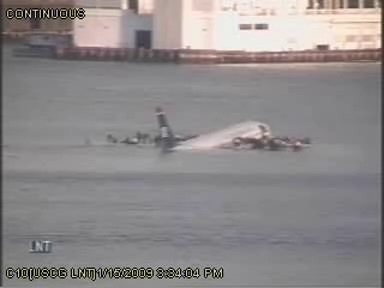
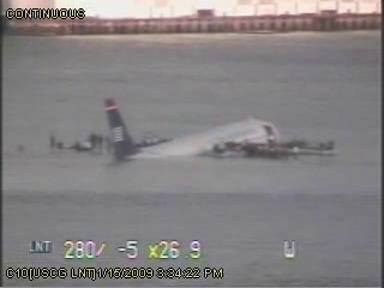
32本目 ⑤c' 検品【直す】：Ogg の入力シークのずれを出力シークに・c101 の区間・c305/c306/c307/cb10 の地・c514 の見出し・c818 の替え
- footage._cut_stream：Ogg（.ogv/.ogg）は `-ss` を `-i` の後ろへ。入力シークは X より手前のキーフレームから読む
  （-ss 186 → 頭から順に読んだ 170.667秒目と画素で差 0.00・Modal の検品画像も同じ）＝VTS 13カット中9カットが 15〜20秒手前だった
  （c102 c801 c811 c901 c903 c908 ca07 c911 c919）。selftest に Ogg の対照4つ（陽性対照 70/70）
- ep32_assets fb：ひかえの静止画（章の扉の地にもなる）も出力シークで作り直した（10枚＝ずれの9＋c101）
- c101：区間の頭 7.0 → 5.0（×2 の窓のしぶき 10.0〜14.0秒・語り「白いしぶきは」を最大の 12.0 の直後に）
- c305：額の地を PAGE_BLUR（手書きの英字が読めた）。名前は c61.jpg に無い（束の段で行 852 まで）
- c306・c307：地 c61 → gc1（gs1 は c307 で 8:1 を割った）／cb10：地 c61 → c14
- c514：見出し「機長の話」→「遠すぎたテターボロ」（真下の写真は調査官）
- c818：Pexels 3036757（座席の背の札＝字が主役）→ 4061487（暗い客室の空いた座席）・SLIDE_NOT_MOUNT に左の暗い帯
- 帳：並べ 41/41・原寸 18・疑い 38 のうち 17 決着（3-A）

diff --git a/tools/footage.py b/tools/footage.py
@@ -727,7 +727,7 @@ USE = {
     #   （narration.json の実測の秒・扉を除く）。欄は束のチャットで道具から書き出す（手で書かない）＝下の印のあいだ。
     #   🔴 等速・止めなし・頭から使う・同じ秒を2回使わない・音は使わない（-an）・焼き込みのカメラの時計は語りと副題に使わない
     # EP32_USE>>> ここから（手で書かない）
-    "c101": dict(clip="VC", start=7.00, until=20.50, rate=1.0, zoom=2.0, xbias=0.0, bias=0.44),   # 読む 9.17秒（〜16.17）／区間 13.50秒・ショット 0〜42.667
+    "c101": dict(clip="VC", start=5.00, until=20.50, rate=1.0, zoom=2.0, xbias=0.0, bias=0.44),   # 読む 9.17秒（〜14.17）／区間 15.50秒・ショット 0〜42.667
     "c102": dict(clip="VC", start=82.00, until=95.50, rate=1.0),   # 読む 9.75秒（〜91.75）／区間 13.50秒・ショット 42.667〜108
     "c801": dict(clip="VC", start=186.00, until=206.50, rate=1.0),   # 読む 9.07秒（〜195.07）／区間 20.50秒・ショット 183.667〜207
     "c811": dict(clip="VC", start=210.00, until=227.50, rate=1.0),   # 読む 9.24秒（〜219.24）／区間 17.50秒・ショット 207〜228
@@ -1124,7 +1124,7 @@ def selftest():
     def _dl_fail(_u, _d):
         raise IOError("（検算：網には出ない）")
 
-    def _vf_of(w, h, dispw, dl=_dl_fail, extra=None):
+    def _vf_of(w, h, dispw, dl=_dl_fail, extra=None, url="http://example.invalid/s.mp4", start=1.0):
         seen = {}
 
         class _R:
@@ -1142,10 +1142,10 @@ def selftest():
             time.sleep = lambda *_a, **_k: None            # type: ignore[assignment]
             globals()["download_media"] = dl
             _MEDIA.clear()
-            CLIPS["_st_sar"] = dict(url="http://example.invalid/s.mp4", sec=99.0,
+            CLIPS["_st_sar"] = dict(url=url, sec=99.0,
                                     w=w, h=h, dispw=dispw, credit="（検算用）",
                                     note="（検算用）", stream=True, **(extra or {}))
-            _cut_stream("_st_sar_cut", dict(clip="_st_sar", start=1.0), 1.0)
+            _cut_stream("_st_sar_cut", dict(clip="_st_sar", start=start), 1.0)
         finally:
             subprocess.run = keep_run                      # type: ignore[assignment]
             time.sleep = keep_sleep                        # type: ignore[assignment]
@@ -1181,6 +1181,15 @@ def selftest():
     # 🆕 18本目 ⑤b-7c：NARA の mp4（`"range": true`）は落とさずに URL のまま区間を読む（丸ごと保存しない＝(c) の了承）
     _v, cmd_rg = _vf_of(720, 480, 655, dl=lambda _u, _d: 215_134_981, extra=dict(range=True))
     chk("陽性対照：range の帯は丸ごと落とさず URL のまま ffmpeg に渡す", _src_of(cmd_rg).startswith("http"), True)
+    # 🆕 32本目 ⑤c'：Ogg は出力シーク（`-ss` が `-i` の後ろ）＝入力シークだとキーフレームへ戻ったまま（_cut_stream の注）
+    _v, cmd_og = _vf_of(384, 288, 384, dl=lambda _u, _d: 5_537_657, url="http://example.invalid/v.ogv", start=186.0)
+    chk("陽性対照：Ogg（.ogv）は -ss が -i の後ろ（出力シーク）",
+        "-ss" in cmd_og and cmd_og.index("-ss") > cmd_og.index("-i") and _src_of(cmd_og).endswith(".ogv"), True)
+    chk("陽性対照：そのときの秒は区間の頭のまま（186.000）", cmd_og[cmd_og.index("-ss") + 1] == "186.000", True)
+    chk("陰性対照：mp4 は今までどおり -ss が -i の前（入力シーク）",
+        "-ss" in cmd_dl and cmd_dl.index("-ss") < cmd_dl.index("-i"), True)
+    chk("陰性対照：網の Ogg を落とせず URL を渡すときも出力シーク（区間読みの二分探索を連打しない）",
+        _seek_after_input("https://upload.wikimedia.org/x/Flight1549CrashAndRescue.ogv"), True)
     import shutil as _sh
     _sh.rmtree(FOOT / "_st_sar_cut", ignore_errors=True)
 
@@ -1516,6 +1525,14 @@ def head_mismatch(use=None, spec=None):
     return sorted(a - b), sorted(b - a)
 
 
+OGG_EXT = (".ogv", ".ogg", ".ogx")
+
+
+def _seek_after_input(src):
+    """🆕 32本目 ⑤c'：Ogg は `-ss` を `-i` の後ろに置く（入力シークはキーフレームへ戻ったまま＝最大20秒手前・_cut_stream の注）"""
+    return str(src).lower().split("?")[0].endswith(OGG_EXT)
+
+
 def _cut_stream(cid, u, secs):
     """URL から、そのカットに要る区間だけをコマに切り出す（落とさない）。"""
     c = CLIPS[u["clip"]]
@@ -1563,8 +1580,18 @@ def _cut_stream(cid, u, secs):
             #    この回は音を鳴らさない決定なので、指定しないと混ざる。
             # ⚠ `-user_agent` は http の口の設定。手元のファイルに付けると止まる版がある
             net = ["-user_agent", UA] if str(src).startswith(("http://", "https://")) else []
+            # 🔴🔴 2026-11-12（32本目 ⑤c'）**Ogg は入力シーク（`-ss` を `-i` の前）だと、X より手前のキーフレームから読む。**
+            #    VTS（Commons の .ogv・毎秒3コマ）で `-ss 186 -i` の1コマ目が、頭から順に読んだ **170.667秒目**と画素で一致（差 0.00）。
+            #    13カット中9カットが 15〜20秒手前から切られ、c801 は機体の入る前の建物、c901 はフェリーの着く前の寄りになった。
+            #    Modal（apt の ffmpeg）でも同じ＝焼いた検品画像の額の中が順の 214.0秒（SPEC は 230）。ffmpeg 8.1.1 の手元も同じ。
+            #    出力シーク（`-i` の後ろに `-ss`）は頭から読んで捨てる＝4本とも順の秒と差 0.00。速さを変える欄は出力側の時間が
+            #    PTS/rate なので秒も ss/rate。→ [[feedback-verify-your-own-instrument]]
+            if _seek_after_input(src):
+                seek_in, seek_out = [], ["-ss", f"{ss / rate:.3f}"]
+            else:
+                seek_in, seek_out = ["-ss", f"{ss:.2f}"], []
             cmd = ["ffmpeg", "-y", "-nostdin", "-hide_banner", "-loglevel", "error",
-                   *net, "-ss", f"{ss:.2f}", "-i", src,
+                   *net, *seek_in, "-i", src, *seek_out,
                    "-an", "-t", f"{secs + 0.6:.2f}", "-vf", ",".join(vf),
                    "-frames:v", str(n), "-q:v", "3", "-start_number", "0",
                    str(d / "%05d.jpg")]

diff --git a/tools/cuts/c3.py b/tools/cuts/c3.py
@@ -156,8 +156,10 @@ SPEC.update({
 # 🆕 ⑤b-6（2026-11-11）：型の図（時計・比べ・並べ・線・帯）＝mech32 の「⑤b-6」の節
 SPEC.update({
     "c301": _m32.zu_spec("c301", ss.gr("stock/gs1")),
-    "c306": _m32.zu_spec("c306", ss.gr("c61")),
-    "c307": _m32.zu_spec("c307", ss.gr("c61")),
+    # 🔧 ⑤c'（2026-11-12）：地 c61 → gc1（c61 の手書きの英字 BYPASS・FLOW PATH・1-29-09 が 0.24 でも読め、メスの札が字の上に乗った）。
+    #    同じ章の gs1（0.37）は c307 で門番 ground が 8.0:1 を割った（地の明るさは写真ごとに1つ＝gs1 を下げると8カットが変わる）＝雲の上の gc1（0.32）
+    "c306": _m32.zu_spec("c306", ss.gr("stock/gc1")),
+    "c307": _m32.zu_spec("c307", ss.gr("stock/gc1")),
     "c308": _m32.zu_spec("c308", ss.gr("stock/gs1")),
     "c323": _m32.zu_spec("c323", ss.gr("stock/gs1")),
 })
@@ -166,7 +168,9 @@ SPEC.update({
 _C61, _D76_4, _D76_2, _D101_2 = P("c61"), P("d76_4"), P("d76_2"), P("d101_2")
 SPEC.update({
     # c305＝[61] 袋の羽（エンジン1 の札・「1-29-09」・左下の手書きの人の名前は束の段で切り落とした）
-    "c305": dict(photo=_C61, panel=True, ptall=True, ground=dict(photo=_C61), color=1.0,
+    #   🔧 ⑤c'（2026-11-12）：額の地（既定のぼかし）で手書きの英字が大きく読めた＝c202 と同じ紙面の強さ（PAGE_BLUR）。
+    #      手書きの人の名前は c61.jpg に無い（束の段で行 852 まで＝名前は原本の行 855〜940）＝地のぼかしにも出ない
+    "c305": dict(photo=_C61, panel=True, ptall=True, ground=dict(photo=_C61, blur=ss.PAGE_BLUR), color=1.0,
                  t="羽の分析", s="エンジンから集めた羽〈NTSB〉"),
     # c309＝#76 写真4 ピンクの丸の中の凹み
     "c309": dict(photo=_D76_4, panel=True, ptall=True, ground=dict(photo=_D76_4), color=1.0,

diff --git a/tools/cuts/c5.py b/tools/cuts/c5.py
@@ -181,7 +181,7 @@ SPEC.update({
     # c514＝[35] 甲板の残骸のそばの NTSB の調査官（公的な任務・名前は書かない）＝調査官と残骸へ寄る
     #   🔧 試し焼き（Actions 43026909564）：真ん中から寄ると調査官の頭（帽子＝行 0.03〜0.12）が窓の上の外に出た＝上寄せの窓を2つ（`mvz`）
     "c514": dict(photo=_C35, **ss.mvz(_C35, (0.5, 0.42, 1.0), (0.55, 0.40, 1.12)), side="none", color=1.0,
-                 t="機長の話", s="残骸を見る NTSB の調査官〈2009年1月・陸軍工兵隊〉"),
+                 t="遠すぎたテターボロ", s="残骸を見る NTSB の調査官〈2009年1月・陸軍工兵隊〉"),   # 🔧 ⑤c'（11-12）見出し「機長の話」→ 人を指さない語（真下の調査官を機長と取り違えない）
     # c516＝[8] 奥の岸壁の機体と消防艇（EXIF 1月17日 9:51）＝機体と消防艇のあいだへ寄る
     #   🔧 寄りは 1.10（1.15 だと寄り終わりの窓の上の辺〈行 418〉が左上のビルの OCR の行 405〜442 を 65% で切る＝門番 edges）
     "c516": dict(photo=_C8, **ss.mv(_C8, "in", fx=0.3, fy=0.68, z=1.10), side="none", color=1.0,

diff --git a/qa_out/ep32_assets.py b/qa_out/ep32_assets.py
@@ -1361,7 +1361,9 @@ def cmd_fb(only=None):
         c = FO.CLIPS.get(u["clip"]) or {}
         if not str(c.get("scan", "")).startswith("ref/ep32/"):
             continue
-        raw = subprocess.run(["ffmpeg", "-v", "error", "-ss", f"{float(u['start']):.3f}", "-i", str(HERE / c["scan"]), "-frames:v", "1",
+        # 🔴 11-12（⑤c'）：Ogg は `-ss` を `-i` の後ろ（出力シーク）。前に置くと X より手前のキーフレーム（最大約20秒手前）のコマになり、
+        #    章の扉の地（c800card＝fb_c801・c900card＝fb_c901）が機体の写らない別の絵だった（footage._cut_stream の注と同じ）
+        raw = subprocess.run(["ffmpeg", "-v", "error", "-i", str(HERE / c["scan"]), "-ss", f"{float(u['start']):.3f}", "-frames:v", "1",
                               "-f", "image2pipe", "-vcodec", "png", "-"], capture_output=True).stdout
         if not raw:
             print(f"🔴 {cid}: コマが取れない")

diff --git a/tools/cuts/ss.py b/tools/cuts/ss.py
@@ -860,6 +860,7 @@ SLIDE_MOUNT: dict[str, str] = {}
 #       （640px のシートで見た・測った辺＝門番の margins の値）。VTS のひかえ（焼き込みの字の行がある）は暗い帯 0＝字の行は帯にならない。スライドの台紙の縁は0点
 SLIDE_NOT_MOUNT: dict[str, str] = {
     P("c9"): "夜の作業の写真＝上の 5.0% は夜の空（陸軍工兵隊の船の上）",
+    P("stock/x818"): "暗い客室の空いた座席（⑤c' で替えた Pexels 4061487）＝左の 5.0% は影の中の客室の壁と窓の板（候補の見本で見た）",
     P("c40"): "夜の岸壁のそばの機体＝右の 5.0% は明かりの消えたビルの壁（夜）",
     P("c41"): "引き上げたあとの機体（夜）＝左・上・右の 5% は夜の空と木の枝の影",
     P("c46"): "引き上げられる機体（夜・BY-SA＝額装だけ）＝上・右の 5% は夜の空とクレーンの影",

diff --git a/tools/cuts/cb.py b/tools/cuts/cb.py
@@ -103,7 +103,7 @@ SPEC.update({
     "cb03": _m32.fu_spec("cb03", ss.gr("c13")),
     "cb05": _m32.fu_spec("cb05", ss.gr("c14")),
     "cb07": _m32.zu_spec("cb07", ss.gr("c14")),
-    "cb10": _m32.fu_spec("cb10", ss.gr("c61")),
+    "cb10": _m32.fu_spec("cb10", ss.gr("c14")),   # 🔧 ⑤c'（2026-11-12）：地 c61 → c14（c61 の手書きの英字が読めた＝同じ章の cb05・cb07 の地）
     "cb14": _m32.zu_spec("cb14", ss.gr("c13")),
     "cb15": _m32.zu_spec("cb15", ss.gr("c49")),
 })

diff --git a/ref/ep32/eizou_list32.md b/ref/ep32/eizou_list32.md
@@ -19,7 +19,7 @@ tags: [project/jiko-kensho, ep32]
 | 図 | 90 カット（模式 67・ほか 23＝地はすべて写真） | 地は暗くするだけ・動かさない |
 | 見せ方（写真・映像・紙面・イメージ） | 額装（高さいっぱい） 66・全面 65・額装（衛星） 15 | 額装は静止 |
 | 動き | 静止 68・ゆっくり寄る 65・映像 13 | 全面は寄る／流す |
-| 🔧 台本の画の欄から替えたカット | 110 | 台本は直さない＝⑤b はこの一覧に従う |
+| 🔧 台本の画の欄から替えたカット | 113 | 台本は直さない＝⑤b はこの一覧に従う |
 | 種類 | 模式 67・イメージ 46・写真 38・公的 21・衛星 15・映像 13・調査 13・割合 3・帯 3・比べ 2・並べ 2・年表 2・表 2・棒 2・箱 2・時計 1・線 1・言葉 1・流れ 1・札 1 | — |
 | 合計 | 236 カット・35:54.8（audio/narration.json の実測・ed01 を除く） | — |
 
@@ -57,18 +57,17 @@ tags: [project/jiko-kensho, ep32]
 - C26（浮かぶ機体と翼の上に並ぶ人たち（遠景・顔は分からない））＝5 カット：c802 c804 c807 c809 c810
 - C16（浮かぶ機体に横付けしたフェリー（高い所から・遠景））＝5 カット：c813 c816 c819 c820 c822
 - C21（消防艇と小舟・沈みかけの翼と尾翼（AIRWAYS の字））＝4 カット：c209 c210 c719 c723
-- C61（袋に入った羽（エンジン1 の札・袋の手書きの字））＝3 カット：c306 c307 cb10
+- GC1（イメージ（地）：上から見た雲の海）＝3 カット：c306 c307 c605
 - C49（この機体の操縦室の天井のパネル（ENG 1・APU・ENG 2 の消火のボタン））＝3 カット：c311 c619 cb15
 - GB2（イメージ（地）：重ねた白い紙の角（白黒））＝3 カット：c610 c614 c615
 - C36（岸壁のそばの沈みかけの機体と沿岸警備隊の小舟 25640（晴れ・昼））＝3 カット：ca08 ca10 ca12
+- C14（錨を下ろす作業船の人（甲板・昼））＝3 カット：cb05 cb07 cb10
 - GF1（イメージ（地）：窓から見た翼と翼のうしろの板）＝2 カット：c703 c711
 - C1（川一面の船（手前に艦の一部と桟橋））＝2 カット：c909 c918
 - C18（機体のまわりのフェリーの群れとヘリコプター（夕日の川））＝2 カット：c913 ca14
-- C14（錨を下ろす作業船の人（甲板・昼））＝2 カット：cb05 cb07
 - GR1（イメージ（地）：雪の桟橋と冬の水面を上から）＝1 カット：c410
 - GT1（イメージ（地）：暗い赤い客席の列）＝1 カット：c518
 - GB1（イメージ（地）：見出しの札のついたカードの束）＝1 カット：c603
-- GC1（イメージ（地）：上から見た雲の海）＝1 カット：c605
 - GK2（イメージ（地）：古い小さな機の針の計器の並び）＝1 カット：c705
 - GR2（イメージ（地）：さざ波の立つ川面（白黒））＝1 カット：ca04
 - GL1（イメージ（地）：船に掛けた救命胴衣）＝1 カット：cb13
@@ -77,7 +76,7 @@ tags: [project/jiko-kensho, ep32]
 
 | カット | 秒 | 語りの頭 | 画 |
 |---|---|---|---|
-| c101 | 0:00.0〜0:09.2 | 2009年1月15日の午後、ニューヨーク | 映像 VC＝沿岸警備隊の監視カメラ〈2009年1月15日・ハドソン川〉（映像 7.00〜20.50秒） |
+| c101 | 0:00.0〜0:09.2 | 2009年1月15日の午後、ニューヨーク | 映像 VC＝沿岸警備隊の監視カメラ〈2009年1月15日・ハドソン川〉（映像 5.00〜20.50秒） |
 | c102 | 0:09.2〜0:18.9 | USエアウェイズ1549便、エアバスA3 | 映像 VC＝川に浮かぶ機体と翼の上の人〈沿岸警備隊の監視カメラ〉（映像 82.00〜95.50秒） |
 | c103 | 0:18.9〜0:25.5 | みんな、助かったの？155人は、全員が生 | 写真 C26＝翼の上に並んだ人たち〈2009年1月15日〉（静止） |
 | c104 | 0:25.5〜0:31.7 | 飛び立って1分半あまり。鳥の群れとぶつか | 写真 C31＝着水の直後の機体〈2009年1月15日〉（ゆっくり寄る） |
@@ -92,7 +91,7 @@ tags: [project/jiko-kensho, ep32]
 
 | カット | 秒 | 語りの頭 | 種類 | 素材 | 地 | 見せ方 | 副題・札 | 動き | 🔧 | 備考 |
 |---|---|---|---|---|---|---|---|---|---|---|
-| c101 | 0:00.0（9.2） | 2009年1月15日の午後、ニューヨーク | 映像 | VC | — | 額装（高さいっぱい） | 沿岸警備隊の監視カメラ〈2009年1月15日・ハドソン川〉 | 映像 7.00〜20.50秒 | 🔧 区間 0〜20秒 → 7.0秒から（しぶきは 9秒から＝語りの「白いしぶきは」より前に入る） | しぶきに丸の囲み（9秒〜）・拡大しない（⑤b の試し焼きで見えなければ ×2 の固定の切り出し）・高さいっぱいの額＋同じ映像のぼかしの地 ［冒頭］ |
+| c101 | 0:00.0（9.2） | 2009年1月15日の午後、ニューヨーク | 映像 | VC | — | 額装（高さいっぱい） | 沿岸警備隊の監視カメラ〈2009年1月15日・ハドソン川〉 | 映像 5.00〜20.50秒 | 🔧 区間 0〜20秒 → 7.0秒から → ⑤c'（11-12）5.0秒から（×2 の窓の中のしぶきは頭から順に読んだ 10.0〜14.0秒・最大 12.0＝語り「白いしぶきは」〈カットの約7.4秒〉を約12.4秒に重ねる） | しぶきに丸の囲み（9秒〜）・拡大しない（⑤b の試し焼きで見えなければ ×2 の固定の切り出し）・高さいっぱいの額＋同じ映像のぼかしの地 ［冒頭］ |
 | c102 | 0:09.2（9.7） | USエアウェイズ1549便、エアバスA3 | 映像 | VC | — | 額装（高さいっぱい） | 川に浮かぶ機体と翼の上の人〈沿岸警備隊の監視カメラ〉 | 映像 82.00〜95.50秒 | 🔧 区間 50秒〜1分30秒 → 82.0秒から（翼の上の人がいちばん見える・カメラが落ち着いた 81〜96秒） | 人は遠景で顔は分からない ［冒頭］ |
 | c103 | 0:18.9（6.6） | みんな、助かったの？155人は、全員が生 | 写真 | C26 | — | 額装（高さいっぱい） | 翼の上に並んだ人たち〈2009年1月15日〉 | 静止 | 🔧 全面 → 高さいっぱいの額（1289×1243＝ほぼ正方形） | 地は同じ写真のぼかし ［冒頭］ |
 | c104 | 0:25.5（6.2） | 飛び立って1分半あまり。鳥の群れとぶつか | 写真 | C31 | — | 全面 | 着水の直後の機体〈2009年1月15日〉 | ゆっくり寄る | 🔧 副題を写っているものに（頁の説明「shortly after landing」） | — ［冒頭］ |
@@ -137,8 +136,8 @@ tags: [project/jiko-kensho, ep32]
 | c303 | 4:32.2（6.9） | ぶつかったのは、地上から約860メートル | 衛星 | SAT:鳥とぶつかった所 | — | 額装（衛星） | 鳥とぶつかった所〈現在の衛星写真〉 | 静止 | — | — |
 | c304 | 4:39.1（5.7） | どんな鳥だったの？エンジンに残った羽や血 | イメージ | X304 | — | 全面 | イメージ：空を飛ぶカナダガンの群れ | ゆっくり寄る | — | — |
 | c305 | 4:44.8（11.0） | 羽の成分をくらべると、渡りをするガンの羽 | 写真 | C61 | — | 額装（高さいっぱい） | エンジンから集めた羽〈NTSB〉 | 静止 | 🔧 全面 → 額装（縦長） | 🔴 左下の手書きの人の名前を切る（PD＝切出可） |
-| c306 | 4:55.8（8.7） | 1羽の重さは、平均で3キロをこえる。報告 | 比べ | — | C61 | — | ガンの重さ＝オス 約3.8〜4.2キロ・メス 約3.3〜3.5キロ | — | — | — |
-| c307 | 5:04.4（7.6） | このエンジンが認められたときの、大きな鳥 | 並べ | — | C61 | — | 大きな鳥の試験＝約1.8キロ〈4ポンド〉1羽・当たったガン＝約3.6キロ〈8ポンド〉が2羽ずつ | — | — | — |
+| c306 | 4:55.8（8.7） | 1羽の重さは、平均で3キロをこえる。報告 | 比べ | — | GC1 | — | ガンの重さ＝オス 約3.8〜4.2キロ・メス 約3.3〜3.5キロ | — | 🔧 ⑤c'（11-12）地 C61 → GC1（C61 の手書きの英字が 0.24 でも読め、メスの札が字の上に乗った・GS1 は c307 で 8:1 を割った） | — |
+| c307 | 5:04.4（7.6） | このエンジンが認められたときの、大きな鳥 | 並べ | — | GC1 | — | 大きな鳥の試験＝約1.8キロ〈4ポンド〉1羽・当たったガン＝約3.6キロ〈8ポンド〉が2羽ずつ | — | 🔧 ⑤c'（11-12）地 C61 → GC1（c306 と同じ） | — |
 | c308 | 5:12.0（12.8） | ぶつかった直後、エンジンの回る速さは、左 | 線 | — | GS1 | — | エンジンの回る速さ＝左 82%→35%・右 82%→15% の2本の線 | — | — | — |
 | c309 | 5:24.8（7.9） | 午後3時27分14秒。副操縦士が「あっ」 | 調査 | D76-4 | — | 額装（高さいっぱい） | 鳥が当たった跡〈NTSB の調査の写真〉 | 静止 | 🔧 調査の写真の番号を凡例から（#76 写真4） | — |
 | c310 | 5:32.7（7.1） | 機長はエンジンの点火を入れ、その2秒ほど | イメージ | X310 | — | 全面 | イメージ：旅客機の操縦室のスイッチ〈機種は名乗らない〉 | ゆっくり寄る | — | — |
@@ -361,7 +360,7 @@ tags: [project/jiko-kensho, ep32]
 | cb07 | 32:48.5（5.6） | 閉じるまで、ずいぶんかかったんだね。そう | 模式 | — | C14 | — | 事故から17年近くの帯の札 | — | — | — |
 | cb08 | 32:54.1（7.9） | 65番の縦の梁を、客室に突き出しにくい形 | 調査 | D79-45 | — | 額装（高さいっぱい） | 65番の床の穴〈NTSB の調査の写真〉 | 静止 | 🔧 調査の写真の番号を凡例から（#79 写真45）・⑤b-7：副題を額の左に収まる長さに（fmove） | △ 絵は ⑤b で原寸 |
 | cb09 | 33:02.0（12.7） | 2023年、FAAは、群れで飛ぶ中くらい | 公的 | FR2023 | — | 額装（高さいっぱい） |  | 静止 | — | — |
-| cb10 | 33:14.7（11.3） | そう。規則の説明は、1549便の事故をき | 模式 | — | C61 | — | 規則の説明の札＝1549便の事故から研究が始まった | — | — | — |
+| cb10 | 33:14.7（11.3） | そう。規則の説明は、1549便の事故をき | 模式 | — | C14 | — | 規則の説明の札＝1549便の事故から研究が始まった | — | 🔧 ⑤c'（11-12）地 C61 → C14（C61 の手書きの英字が読めた＝同じ章の cb05・cb07 の地） | — |
 | cb11 | 33:26.0（11.9） | まだ開いているのは、どの勧告？農務省への | イメージ | Xb11 | — | 全面 | イメージ：空を飛ぶ鳥の群れと旅客機の遠景〈社名と機種は見せない〉 | ゆっくり寄る | — | — |
 | cb12 | 33:37.8（13.5） | 報告書の言う偶然に頼らない、救命胴衣の勧 | イメージ | Xb12 | — | 全面 | イメージ：救命胴衣の着け方の説明〈人の顔なし | ゆっくり寄る | — | — |
 | cb13 | 33:51.3（7.6） | 救命胴衣の決まりを、すばやく、正しく着け | 模式 | — | GL1 | — | 救命胴衣の勧告の札＝すばやく正しく着けられる決まりへ | — | 🔧 地 [11]（夜）→ イメージ〈救命胴衣〉 | — |
@@ -400,7 +399,7 @@ tags: [project/jiko-kensho, ep32]
 | C8 | commons-photo | accident | 岸壁のそばの機体と消防艇・警察の船（奥に高い建物） | 3840 の縮小版（原本 4319） | 4319×2865 | CC BY 2.0 | Commons の頁の許諾 | 写真：{作者}／Wikimedia Commons（CC BY 2.0） | 2009-01-17 09:51（EXIF） | 船の上の人（遠景） | src/commons/c32/ | c516 | 台本の「夕方・1月15日」は誤り＝1月17日の朝 |
 | C9 | commons-photo | night | 夜の作業＝工兵隊の作業員と警察の人（船の上） | 原本 | 1800×1205 | CC BY 2.0 | 陸軍工兵隊ニューヨーク地区の Flickr（頁の許諾） | 写真：{作者}／Wikimedia Commons（CC BY 2.0） | 2009-01（頁の説明＝機体を岸壁につなぐ作業）・夜 | 工兵隊・警察（公的な任務・中景） | src/commons/c32/ | cb04 | 夜＝地にしない |
 | C13 | commons-photo | accident | 氷の浮かぶ川・警察の船と作業船（奥にマンハッタン） | 3840 の縮小版（原本 3872） | 3872×2592 | CC BY 2.0 | 頁に PD の札もある＝CC BY 2.0 で表示（強いほうに寄せない） | 写真：{作者}／Wikimedia Commons（CC BY 2.0） | 2009-01（頁の説明） | なし（遠景） | src/commons/c32/ | c113 c419 cb01 cb02 cb03 cb14 | 機体は写っていない |
-| C14 | commons-photo | accident | 錨を下ろす作業船の人（甲板・昼） | 3840 の縮小版（原本 3872） | 3872×2592 | CC BY 2.0 | 頁に PD の札もある＝CC BY 2.0 で表示 | 写真：{作者}／Wikimedia Commons（CC BY 2.0） | 2009-01（頁の説明） | 工兵隊の作業員（横顔・公的な任務） | src/commons/c32/ | cb05 cb06 cb07 | 機体は写っていない |
+| C14 | commons-photo | accident | 錨を下ろす作業船の人（甲板・昼） | 3840 の縮小版（原本 3872） | 3872×2592 | CC BY 2.0 | 頁に PD の札もある＝CC BY 2.0 で表示 | 写真：{作者}／Wikimedia Commons（CC BY 2.0） | 2009-01（頁の説明） | 工兵隊の作業員（横顔・公的な任務） | src/commons/c32/ | cb05 cb06 cb07 cb10 | 機体は写っていない |
 | C15 | commons-photo | accident | 浮かぶ機体と寄せたフェリー（高い所から・遠景） | 3840 の縮小版（原本 4288） | 4288×2848 | CC BY 2.0 | Commons の頁の許諾 | 写真：{作者}／Wikimedia Commons（CC BY 2.0） | 2009-01-15（頁の説明） | なし（遠景） | src/commons/c32/ | c105 | — |
 | C16 | commons-photo | accident | 浮かぶ機体に横付けしたフェリー（高い所から・遠景） | 3840 の縮小版（原本 4288） | 4288×2848 | CC BY 2.0 | Commons の頁の許諾 | 写真：{作者}／Wikimedia Commons（CC BY 2.0） | 2009-01-15（頁の説明） | なし（遠景） | src/commons/c32/ | c813 c816 c819 c820 c821 c822 | [15] と同じ撮影者の別の時（似た写真＝c105 と c821 で離す） |
 | C18 | commons-photo | accident | 機体のまわりのフェリーの群れとヘリコプター（夕日の川） | 1920 の縮小版（原本 2144） | 2144×1424 | CC BY 2.0 | Commons の頁の許諾 | 写真：{作者}／Wikimedia Commons（CC BY 2.0） | 2009-01-15（頁の説明） | なし（遠景） | src/commons/c32/ | c106 c913 ca14 | [17] は切って色を直した版＝原本の [18] |
@@ -426,7 +425,7 @@ tags: [project/jiko-kensho, ep32]
 | C57 | commons-photo | accident | 天幕の中で保管中の機体（翼を外した胴体・技術者の後ろ姿） | 1920 の縮小版（原本 2848） | 2848×2136 | CC BY-SA 3.0 | Commons の頁の許諾 | 写真：{作者}／Wikimedia Commons（CC BY-SA 3.0）・無加工 | 2010（題・頁の説明＝ニュージャージー州での保管） | 技術者（奥に小さく立つ・横向き＝⑤b-7 の試し焼きで見た・主役でない） | src/commons/c32/ | ca11 | BY-SA＝額装・無加工・1カット |
 | C59 | commons-photo | accident | トラックで運ばれる胴体（木々の向こう・州警察の建物のそば） | 原本 | 1852×1316 | CC0 | 作者の CC0（頁の許諾） | 写真：{作者}／Wikimedia Commons（CC0） | 2011（頁の説明＝メリーランド州・博物館への運搬） | 遠くの人（小さい） | src/commons/c32/ | cc01 | — |
 | C60 | commons-photo | accident | 運搬に付き添った博物館の車（「The Miracle on the Hudson」の字） | 原本 | 764×591 | CC0 | 作者の CC0（頁の許諾） | 写真：{作者}／Wikimedia Commons（CC0） | 2011（頁の説明＝メリーランド州） | 運転の人（窓の中・顔は分からない） | src/commons/c32/ | cc02 | 小さい＝額装 |
-| C61 | commons-photo | accident | 袋に入った羽（エンジン1 の札・袋の手書きの字） | 原本 | 900×1200 | PD（PD-NTSB） | 米国の連邦の業務 | 写真：NTSB（public domain）／Wikimedia Commons・改変：切出 | 2009-01-29（袋の字） | なし | src/commons/c32/ | c305 c306 c307 cb10 | 🔴 袋の左下の手書きの人の名前を切って使う（PD＝切出可）・縦長＝額装 |
+| C61 | commons-photo | accident | 袋に入った羽（エンジン1 の札・袋の手書きの字） | 原本 | 900×1200 | PD（PD-NTSB） | 米国の連邦の業務 | 写真：NTSB（public domain）／Wikimedia Commons・改変：切出 | 2009-01-29（袋の字） | なし | src/commons/c32/ | c305 | 🔴 袋の左下の手書きの人の名前を切って使う（PD＝切出可）・縦長＝額装 |
 | C62 | commons-photo | museum | 保管中のこの機体の操縦室（泥の跡・座席） | 原本 | 1600×1200 | CC BY-SA 3.0 | Commons の頁の許諾 | 写真：{作者}／Wikimedia Commons（CC BY-SA 3.0）・無加工 | 2011-02-25（EXIF＝博物館へ移す前の保管中） | なし | src/commons/c32/ | c611 | BY-SA＝額装・無加工・1カット |
 | C63 | commons-photo | museum | 保管中のこの機体の座席（泥の跡） | 原本 | 1600×1200 | CC BY-SA 3.0 | Commons の頁の許諾 | 写真：{作者}／Wikimedia Commons（CC BY-SA 3.0）・無加工 | 2011-02-25（EXIF＝博物館へ移す前の保管中） | なし | src/commons/c32/ | c806 | BY-SA＝額装・無加工・1カット |
 | C68 | commons-photo | museum | 調べたあとの機体の底の壊れ（NTSB の印） | 原本 | 1600×1200 | CC BY-SA 3.0 | Commons の頁の許諾 | 写真：{作者}／Wikimedia Commons（CC BY-SA 3.0）・無加工 | 2011-02-25（EXIF＝博物館へ移す前の保管中） | なし | src/commons/c32/ | c717 | BY-SA＝額装・無加工・1カット（台本の「後ろの胴体の中」は誤り） |
@@ -518,7 +517,7 @@ tags: [project/jiko-kensho, ep32]
 | X803 | stock | stock | イメージ：曇り空の海にひとつ浮かぶ赤いゴムボート | stock:https://images.pexels.com/photos/33338814/pexels-photo-33338814.jpeg?auto=compress&cs=tinysrgb&w=2880 | 2880x4320 | Pexels | https://www.pexels.com/photo/solitary-inflatable-boat-on-tranquil-sea-33338814/（同上） | イメージ（Pexels） | 現在 | なし | src/stock/X803.jpg | c803 | c803・縦長＝窓で横の帯を切る |
 | X808 | stock | stock | イメージ：窓ぎわの空いた座席 | stock:https://images.pexels.com/photos/20584536/pexels-photo-20584536.jpeg?auto=compress&cs=tinysrgb&w=2880 | 2880x4320 | Pexels | https://www.pexels.com/photo/empty-seats-in-airplane-20584536/（同上） | イメージ（Pexels） | 現在 | なし | src/stock/X808.jpg | c808 | c808・🔧 一覧の「座席の下の袋」は Pexels に無い・1本目の候補 1188803 は頁の名が text overlay（字を載せた図案＝字だけの画面）＝外した |
 | X817 | stock | stock | イメージ：救命胴衣の取り出し方の絵の札（座席の下） | stock:https://images.pexels.com/photos/7508662/pexels-photo-7508662.jpeg?auto=compress&cs=tinysrgb&w=2880 | 2880x1393 | Pexels | https://www.pexels.com/photo/safety-guidelines-on-gray-background-7508662/（同上） | イメージ（Pexels） | 現在 | なし | src/stock/X817.jpg | c817 | c817・🔧 一覧の「袋を開ける手」は Pexels に無い＝取り出し方の絵の札（英字の札＝社名なし） |
-| X818 | stock | stock | イメージ：座席の背の札と物入れのしおり | stock:https://images.pexels.com/photos/3036757/pexels-photo-3036757.jpeg?auto=compress&cs=tinysrgb&w=2880 | 2880x1617 | Pexels | https://www.pexels.com/photo/close-up-of-aviation-policy-on-the-back-of-an-airplane-seat-3036757/（同上） | イメージ（Pexels） | 現在 | なし | src/stock/X818.jpg | c818 | c818・🔴 しおりの社名・印は原寸で |
+| X818 | stock | stock | イメージ：暗い客室に並ぶ空いた座席 | stock:https://images.pexels.com/photos/4061487/pexels-photo-4061487.jpeg?auto=compress&cs=tinysrgb&w=2880 | 2880x1920 | Pexels | https://www.pexels.com/photo/black-seats-in-airplane-4061487/（同上） | イメージ（Pexels） | 現在 | 奥の通路に人影1つ（小さく・顔は分からない） | src/stock/X818.jpg | c818 | c818・🔧 ⑤c'（11-12）3036757（座席の背の札＝ポルトガル語と英語の字が主役＝「字は見せない」に反する）から替えた・Pexels を1回だけ検索（airplane seat cushion）・🔴 座席の札・社名は原寸で |
 | X904 | stock | stock | イメージ：船の手すりと冬の海（白黒） | stock:https://images.pexels.com/photos/12020663/pexels-photo-12020663.jpeg?auto=compress&cs=tinysrgb&w=2880 | 2880x1920 | Pexels | https://www.pexels.com/photo/sea-seen-from-ferry-12020663/（同上） | イメージ（Pexels） | 現在 | なし | src/stock/X904.jpg | c904 | c904・🔴 浮き輪の船の名は原寸で |
 | X914 | stock | stock | イメージ：人のいない客室の青い座席の列 | stock:https://images.pexels.com/photos/3129736/pexels-photo-3129736.jpeg?auto=compress&cs=tinysrgb&w=2880 | 2880x2160 | Pexels | https://www.pexels.com/photo/empty-blue-airplane-seats-3129736/（同上） | イメージ（Pexels） | 現在 | なし | src/stock/X914.jpg | c914 | c914 |
 | Xa03 | stock | stock | イメージ：雪の岸と静かな冬の川面 | stock:https://images.pexels.com/photos/285853/pexels-photo-285853.jpeg?auto=compress&cs=tinysrgb&w=2048 | 2048x1536 | Pexels | https://www.pexels.com/photo/body-of-water-285853/（同上） | イメージ（Pexels） | 現在 | なし | src/stock/Xa03.jpg | ca03 | ca03・⚠ 原本の幅 2048＝寄りは小さく |
@@ -528,7 +527,7 @@ tags: [project/jiko-kensho, ep32]
 | Xb12 | stock | stock | イメージ：救命胴衣を着けた客室乗務員の後ろ姿 | stock:https://images.pexels.com/photos/14630706/pexels-photo-14630706.jpeg?auto=compress&cs=tinysrgb&w=2880 | 2880x3840 | Pexels | https://www.pexels.com/photo/stewardess-in-life-jacket-in-front-of-empty-seats-14630706/（同上） | イメージ（Pexels） | 現在 | 後ろ姿の1人（顔なし） | src/stock/Xb12.jpg | cb12 | cb12・🔴 制服と胴衣の印は原寸で |
 | GB1 | stock | ground | イメージ（地）：見出しの札のついたカードの束 | stock:https://images.pexels.com/photos/12585541/pexels-photo-12585541.jpeg?auto=compress&cs=tinysrgb&w=1920 | 1920x1280 | Pexels | https://www.pexels.com/photo/close-up-of-paper-cards-12585541/（同上） | 地の写真：イメージ（Pexels） | 現在 | なし | src/stock/GB1.jpg | c603 | 地「冊子の目次」（1カット）・🔴 1本目 29378816 は 640px で本の目次の字が読めた（実在の本と分かる恐れ）＝替えた |
 | GB2 | stock | ground | イメージ（地）：重ねた白い紙の角（白黒） | stock:https://images.pexels.com/photos/20062955/pexels-photo-20062955.jpeg?auto=compress&cs=tinysrgb&w=1920 | 1920x1280 | Pexels | https://www.pexels.com/photo/corner-of-paper-stack-20062955/（同上） | 地の写真：イメージ（Pexels） | 現在 | なし | src/stock/GB2.jpg | c610 c614 c615 | 地「冊子の束」（3カット） |
-| GC1 | stock | ground | イメージ（地）：上から見た雲の海 | stock:https://images.pexels.com/photos/35706529/pexels-photo-35706529.jpeg?auto=compress&cs=tinysrgb&w=1920 | 1920x1280 | Pexels | https://www.pexels.com/photo/aerial-view-of-soft-cloud-blanket-from-above-35706529/（同上） | 地の写真：イメージ（Pexels） | 現在 | なし | src/stock/GC1.jpg | c605 | 地「雲の上」（1カット） |
+| GC1 | stock | ground | イメージ（地）：上から見た雲の海 | stock:https://images.pexels.com/photos/35706529/pexels-photo-35706529.jpeg?auto=compress&cs=tinysrgb&w=1920 | 1920x1280 | Pexels | https://www.pexels.com/photo/aerial-view-of-soft-cloud-blanket-from-above-35706529/（同上） | 地の写真：イメージ（Pexels） | 現在 | なし | src/stock/GC1.jpg | c306 c307 c605 | 地「雲の上」（1カット） |
 | GF1 | stock | ground | イメージ（地）：窓から見た翼と翼のうしろの板 | stock:https://images.pexels.com/photos/17754867/pexels-photo-17754867.jpeg?auto=compress&cs=tinysrgb&w=1920 | 1920x2885 | Pexels | https://www.pexels.com/photo/an-airplane-wing-seen-from-the-airplane-window-17754867/（同上） | 地の写真：イメージ（Pexels） | 現在 | なし | src/stock/GF1.jpg | c703 c711 | 地「翼のうしろの板」（2カット） |
 | GK2 | stock | ground | イメージ（地）：古い小さな機の針の計器の並び | stock:https://images.pexels.com/photos/29053115/pexels-photo-29053115.jpeg?auto=compress&cs=tinysrgb&w=1920 | 1920x1280 | Pexels | https://www.pexels.com/photo/vintage-aircraft-cockpit-with-analog-gauges-29053115/（同上） | 地の写真：イメージ（Pexels） | 現在 | なし | src/stock/GK2.jpg | c705 | 地「速さの計器」（1カット） |
 | GL1 | stock | ground | イメージ（地）：船に掛けた救命胴衣 | stock:https://images.pexels.com/photos/5331936/pexels-photo-5331936.jpeg?auto=compress&cs=tinysrgb&w=1920 | 1920x2880 | Pexels | https://www.pexels.com/photo/stack-of-life-vests-in-boat-5331936/（同上） | 地の写真：イメージ（Pexels） | 現在 | なし | src/stock/GL1.jpg | cb13 | 地「救命胴衣」（1カット） |
@@ -537,7 +536,7 @@ tags: [project/jiko-kensho, ep32]
 ## §4 門番
 
 - E 0 件
-- ⚠ 41 件
+- ⚠ 38 件
   - ⚠ c101 VC 人＝翼の上の人（遠景・顔は分からない）
   - ⚠ c102 VC 人＝翼の上の人（遠景・顔は分からない）
   - ⚠ c103 C26 人＝翼の上の乗客（遠景・顔は分からない）
@@ -545,8 +544,6 @@ tags: [project/jiko-kensho, ep32]
   - ⚠ c108 C1 人＝船の上の人（遠景）
   - ⚠ c111 C36 人＝乗り組みの人（中景・公的な任務）
   - ⚠ c217 D101-1 人＝調査官（中景・顔の見える人あり＝⑤b-7 の試し焼きで見た・公的な任務＝升目なし）
-  - ⚠ c306 地 C61 が小さい（幅 900＝1920 へ引き伸ばすと柔らかい）
-  - ⚠ c307 地 C61 が小さい（幅 900＝1920 へ引き伸ばすと柔らかい）
   - ⚠ c514 C35 人＝NTSB の調査官（公的な任務・名前は書かない）
   - ⚠ c516 C8 人＝船の上の人（遠景）
   - ⚠ c622 C32 人＝警察のダイバーと工兵隊（顔が見える・公的な任務）
@@ -572,7 +569,6 @@ tags: [project/jiko-kensho, ep32]
   - ⚠ ca11 C57 人＝技術者（奥に小さく立つ・横向き＝⑤b-7 の試し焼きで見た・主役でない）
   - ⚠ cb04 C9 人＝工兵隊・警察（公的な任務・中景）
   - ⚠ cb06 C14 人＝工兵隊の作業員（横顔・公的な任務）
-  - ⚠ cb10 地 C61 が小さい（幅 900＝1920 へ引き伸ばすと柔らかい）
   - ⚠ cb16 C45 人＝はしけの人（遠景・小さい）
   - ⚠ cc01 C59 人＝遠くの人（小さい）
   - ⚠ cc02 C60 人＝運転の人（窓の中・顔は分からない）

diff --git a/qa_out/ep32_suspects.md b/qa_out/ep32_suspects.md
@@ -7,39 +7,39 @@
 |---|---|---|---|---|
 | c101 | 最後のコマ（映像 約16秒）にしぶきも機体も見えない（左の黒い横長は 0.05 のコマにもある＝桟橋か）＝語り「白いしぶきは」の秒にしぶきが ×2 の窓に入っているかを映像のコマで確かめる・窓の柔らかさも原寸で |  |  |  |
 | c205 | 地 C50 の右に会社の名「BAE SYSTEMS」が 640px でも読める（同じ地＝c203・c207・cc05〜cc09・全面 cc03）＝暗さか窓で外すか、そのままか（⑤b-5 §4-6・⑤b-7 §4-4） |  |  |  |
-| c202 | 額の図（379×612 を高さいっぱい）の柔らかさ＝原寸で（ピンぼけの型・640px で決めない・⑤b-7 §4-5） |  |  |  |
-| c109 | 地図の右下の Google の帰属の字が 640px では見えない（c201 も）＝原寸で読めるか（地図15カットの型・小さな字） |  |  |  |
-| c103 | 額装の出典の行が額の下の辺のすぐ下（640px で約3px）・撮影者の名前入りの版で初めて見る＝原寸で額の辺と字幕の帯からの間を測る（額装の型・札の近さ） |  |  |  |
+| c202 | 額の図（379×612 を高さいっぱい）の柔らかさ＝原寸で（ピンぼけの型・640px で決めない・⑤b-7 §4-5） |  | ✓ | ⑤c' 原寸で図の字（Coney climb cross…）が読める・倍率 1.36（379×612→515×832）＝原本の限り・このまま |
+| c109 | 地図の右下の Google の帰属の字が 640px では見えない（c201 も）＝原寸で読めるか（地図15カットの型・小さな字） |  | ✓ | ⑤c' 原寸で右下の「地図データ ©2026 Google」が読める（字の高さ 約8px）・左下の Google の印も読める・その下に出典の行＝このまま |
+| c103 | 額装の出典の行が額の下の辺のすぐ下（640px で約3px）・撮影者の名前入りの版で初めて見る＝原寸で額の辺と字幕の帯からの間を測る（額装の型・札の近さ） |  | ✓ | ⑤c' 原寸の画素の行：額の下の辺 856〜857行・出典の字 約869〜888行・字幕の帯 900行から＝間 約10px と約11px（6px 以上）＝このまま |
 | c104 | 出典の作者の書き方が c103・c105・c106・c108 と違う（同じ人の全名と略に見える）＝作者の表と頁の作者の欄で照らす（揃えるか） |  |  |  |
 | c306 | 地 C61 の手書きの英字（BYPASS OGV PLATFORM・OUTER FLOWPATH・1-29-09）が 640px でもはっきり読め、メスの札「約3.3〜3.5キロ」が字の上に乗る（c307 も同じ・cb10 も同じ地）＝地を替えるか（⑤b-6 §4-3） |  |  |  |
 | c305 | 額の地（同じ写真のぼかし）でも手書きの英字が大きく読める＝c202 と同じ型（PAGE_BLUR か）・額で切った左下の手書きの人の名前が地のぼかしに残っていないかを原寸で |  |  |  |
 | c211 | イメージが雪の針葉樹の森（山の斜面に見える）・一覧の画は「雪の残る冬の街」・語りはニューヨークの天気（セントラルパーク）＝このままか、街か公園の雪に替えるか |  |  |  |
-| c213 | 線の上の字「このあと入れ替わる」が小さい＝原寸で字の高さを測る（⑤b-5 §4-6・小さな字） |  |  |  |
-| c310 | イメージを 1.27〜1.37倍に拡大＝柔らかさを原寸で（⑤b-4a §4-3・ピンぼけの型） |  |  |  |
-| c401 | 副題は「飛んだ道」だが 640px では白い線が見えない（c317 でははっきり見える・矢印だけ見える）＝原寸で線があるか（「無い」は並べで決めない型） |  |  |  |
-| c314 | イメージの操縦室の右に操縦輪（ヨーク）らしい形＝A320 は横の操縦桿＝原寸で確かめ、型の分かる人に別の機種と分かるならイメージの札のままでよいか |  |  |  |
+| c213 | 線の上の字「このあと入れ替わる」が小さい＝原寸で字の高さを測る（⑤b-5 §4-6・小さな字） |  | ✓ | ⑤c' 幾何で字の箱 高さ 23px（線の上の札の部品 _x）・枠から 15.5px・線から 36.8px・原寸で読める＝このまま |
+| c310 | イメージを 1.27〜1.37倍に拡大＝柔らかさを原寸で（⑤b-4a §4-3・ピンぼけの型） |  | ✓ | ⑤c' 原寸で ENG MODE の字と目盛りがはっきり・柔らかさは中身の妨げにならない＝このまま |
+| c401 | 副題は「飛んだ道」だが 640px では白い線が見えない（c317 でははっきり見える・矢印だけ見える）＝原寸で線があるか（「無い」は並べで決めない型） |  | ✓ | ⑤c' 原寸で白い線（クリーム色・幅 約4px）が矢印の右にある＝副題「飛んだ道」と合う・このまま |
+| c314 | イメージの操縦室の右に操縦輪（ヨーク）らしい形＝A320 は横の操縦桿＝原寸で確かめ、型の分かる人に別の機種と分かるならイメージの札のままでよいか |  | ✓ | ⑤c' 原寸で右側は操縦士の肩と腕（ヨークは写っていない＝640px の見立て違い）＝このまま |
 | c514 | 見出し「機長の話」の真下に人物の全面写真（NTSB の調査官）＝副題に書いてはあるが、機長と取り違えられないか＝見出しを替えるか（語りは機長の聴取） |  |  |  |
-| c415 | 札「降りる向き」と縦の矢印が 640px で接して見える＝原寸で札と線の間を測る（札と線の型） |  |  |  |
+| c415 | 札「降りる向き」と縦の矢印が 640px で接して見える＝原寸で札と線の間を測る（札と線の型） |  | ✓ | ⑤c' 幾何で札「降りる向き」と縦の矢印の間 16.3px（6px 以上）・原寸の尻のコマの札と線も離れている＝このまま |
 | c522 | 破線の「道」が地 C31 の川に浮かぶ機体の真上を通る＝本当の機体の道と読み違えないか（⑤b-5 §4-6）・地の窓で機体を線の外へ寄せるか |  |  |  |
 | c602 | イメージが手帳の月の見出し（APRIL・MARCH・MAY と時刻の字が読める）＝語りは手順書の裏表紙の目次＝合うか（一覧の画と違う物の1つ・4月はシミュレーターの月と重なる） |  |  |  |
 | c617 | 段取りの札が「約910メートル→約610メートル→機首 約11度」で「約150メートルで衝撃に備える合図」が無い＝次の c618 の紙面（At 500'AGL: Brace Signal）で出る＝札に足すか、このままか（⑤b-5 §4-3） |  |  |  |
 | c630 | 勧告の影の札4つ＝c627 の2本（A-10-66・A-10-67）＋c628 の札2つと数は合う＝報告書の勧告の番号で照らす（⑤b-5 §4-5） |  |  |  |
-| c706 | 文字盤の作り手の小さな印＝原寸で読めるか（⑤b-4b §4-3・小さな字） |  |  |  |
-| c708 | 書き起こしの字が小さい（640px で約5px）＝原寸で読めるか・寄せるか（⑤b-3 §4-4） |  |  |  |
+| c706 | 文字盤の作り手の小さな印＝原寸で読めるか（⑤b-4b §4-3・小さな字） |  | ✓ | ⑤c' 原寸で文字盤の数字だけ（上の小さな字は型番らしき数字の切れ端）・作り手の名は読めない＝このまま |
+| c708 | 書き起こしの字が小さい（640px で約5px）＝原寸で読めるか・寄せるか（⑤b-3 §4-4） |  | ✓ | ⑤c' 原寸で書き起こしの時刻・DEP・本文が読める（字の高さ 約14px）＝寄せない・このまま |
 | c801 | 頭のコマ（映像 約186.5秒）に機体が無い（建物と水だけ・焼き込みの方位の字「285/ -5 x12」＝カメラが動いている）＝一覧の「カメラが落ち着いた 184〜207秒」と合わない・第7章の扉 c800card の地も同じコマ（焼き込みの字が扉に出る）＝区間の頭を映像のコマで確かめる |  |  |  |
-| c710 | 頭のコマの右上に「ETOPS」の札が 640px でも読める（認定の語・社名でない）・終わりのコマの右の小さな画面の字＝原寸で読めるか・窓で外すか（⑤b-4b §4-3） |  |  |  |
+| c710 | 頭のコマの右上に「ETOPS」の札が 640px でも読める（認定の語・社名でない）・終わりのコマの右の小さな画面の字＝原寸で読めるか・窓で外すか（⑤b-4b §4-3） |  | 🔴 未（原寸の帳に無い） | ⑤c' 原寸で頭のコマの右上に ETOPS（認定の語・社名でない）・頭は 1.0倍の全体＝窓では外せない・イメージの札あり＝このまま（尻の右の小さな画面は原寸で見ていない） |
 | c720 | イメージは肩と、ピントの外の光る計器だけ＝語りの「シミュレーターの着水の試し」と伝わるか（⑤b-4b §4-3・一覧の画と違う物の1つ） |  |  |  |
-| c714 | 書き起こしの字が小さい（c708 と同じ型・額の幅 640px で約250px）＝原寸で読めるか |  |  |  |
+| c714 | 書き起こしの字が小さい（c708 と同じ型・額の幅 640px で約250px）＝原寸で読めるか |  | ✓ | ⑤c' 原寸で書き起こしの字が読める（字の高さ 約18px）＝寄せない・このまま |
 | c901 | 頭（焼き込みの時計 3:34:26）も終わり（3:34:33）も機体の寄りだけでフェリーが写っていない（方位の字「281/ -5 x26 9」）＝副題「最初のフェリー」・語り「最初のフェリーが機体に着いた」と合わない（⑤b-3b §4-3）＝区間か副題を映像のコマで決め直す |  |  |  |
 | c908 | c906 と同じカメラの続きの絵（焼き込みの時計 c906＝3:35:53〜3:36:07・c908＝3:36:13〜3:36:20）が1カットおきに2回＝続き具合（⑤b-3b §4-2・ca07 も同じ構図か） |  |  |  |
 | c817 | イメージの札は非常口の扉の開け方（絵に EXIT・4つの段）＝語りは救命胴衣の取り出し＝合わない（一覧の画と違う物の1つ）・札の右下の小さな字＝原寸で |  |  |  |
 | c818 | 注意書きの字（ポルトガル語と英語の「座席ベルトを締めて」）がはっきり読める＝一覧は「社名と字は見せない」・この便に無い言葉＝このままか替えるか（⑤b-4b §4-3） |  |  |  |
 | c910 | 終わりのコマがぼやけて機体が分かりにくい（方位の字「320/ -5 x23 5」＝カメラが動いている）＝区間の「カメラが落ち着いた 7〜17秒」を映像のコマで確かめる（ピンぼけの型） |  |  |  |
-| c907 | 額の写真（原本 600px を高さいっぱい）の柔らかさ＝原寸で（ピンぼけの型・⑤b-2 §4-9） |  |  |  |
+| c907 | 額の写真（原本 600px を高さいっぱい）の柔らかさ＝原寸で（ピンぼけの型・⑤b-2 §4-9） |  | ✓ | ⑤c' 原寸で救助艇と尾翼が分かる・倍率 1.87（600→1120）＝原本の限り・額装も最大の決まり＝このまま |
 | c911 | 頭も終わりもフェリー2隻の寄りで機体が見えない（方位の字「292/ -5 x32 0」）＝副題「機体を囲む船」と合うか＝原寸で機体が写っているか（「無い」は並べで決めない型） |  |  |  |
-| ca01 | 投光器の光の中で機体が 640px でははっきりしない（頭のコマは建物だけに見える）＝原寸で機体が分かるか（副題「夜の岸壁のそばの機体」） |  |  |  |
+| ca01 | 投光器の光の中で機体が 640px でははっきりしない（頭のコマは建物だけに見える）＝原寸で機体が分かるか（副題「夜の岸壁のそばの機体」） |  | ✓ | ⑤c' 原寸で頭のコマに尾翼の塗り、尻のコマに胴の字と窓＝機体は写っている・副題と合う＝このまま |
 | c918 | 模式の川（縦の帯・北が上・左右に両岸）と地 C1 の写真の川（横に流れる）の向きが食い違って見える＝このままでよいか（⑤b-6 §4-4・位置は模式と注あり） |  |  |  |
-| c917 | 額の写真（原本 640px を高さいっぱい）の柔らかさ＝原寸で（ピンぼけの型・⑤b-2 §4-9） |  |  |  |
+| c917 | 額の写真（原本 640px を高さいっぱい）の柔らかさ＝原寸で（ピンぼけの型・⑤b-2 §4-9） |  | ✓ | ⑤c' 原寸で引き船とつり上げたエンジンが分かる・倍率 1.76（640→1124）＝原本の限り・このまま |
 | cc03 | 全面の機体に協賛の印5つ（LIEBHERR・BAE SYSTEMS・RestoreCore・FASTSIGNS・NAAS）が 640px でもはっきり読める＝c205 と同じ問い（⑤b-7 §4-4）＝このままか、寄せや窓で減らすか |  |  |  |
-| cb09 | 連邦官報の段が細い縦長の額で、字が 640px で読めない（原寸でも小さい見込み）＝原寸で読めるか・題の行へ寄せるか（紙面の字の小ささ） |  |  |  |
-| cb08 | 額の写真（原本 400×265 を高さいっぱい）の柔らかさ＝原寸で（ピンぼけの型・⑤b-7 §4-5） |  |  |  |
+| cb09 | 連邦官報の段が細い縦長の額で、字が 640px で読めない（原寸でも小さい見込み）＝原寸で読めるか・題の行へ寄せるか（紙面の字の小ささ） |  | ✓ | ⑤c' 原寸で連邦官報の見出しと本文が読める（字の高さ 約13〜14px）＝このまま |
+| cb08 | 額の写真（原本 400×265 を高さいっぱい）の柔らかさ＝原寸で（ピンぼけの型・⑤b-7 §4-5） |  | ✓ | ⑤c' 原寸で部品と鳥の残りは分かる・倍率 2.84（400→1135）で柔らかい＝原本の限り・額装も最大の決まり＝このまま |

diff --git a/ref/CREDITS.md b/ref/CREDITS.md
@@ -3722,7 +3722,7 @@ BY-SA の表示＝撮影者・許諾名と URL・素材の URL・無改変（許
 |---|---|---|---|---|---|
 | `c1` | c108（地 c909 c918） | 2009 | CC BY 2.0（この回の物と場所） | Commons の撮影者（名前は git の外 `ref/ep32/src/credits_private.tsv` の記号の行の3列目＝画面は焼くときに足す） | commons:Boats around plane in the Hudson.jpg |
 | `c13` | c113（地 c419 cb01 cb02 cb03 cb14） | 2009 | CC BY 2.0（この回の物と場所） | Commons の撮影者（名前は git の外 `ref/ep32/src/credits_private.tsv` の記号の行の3列目＝画面は焼くときに足す） | commons:New York District Responds To U.S. Airways Flight 1549 Crash in the Hudson River -d.jpg |
-| `c14` | cb06（地 cb05 cb07） | 2009 | CC BY 2.0（この回の物と場所） | Commons の撮影者（名前は git の外 `ref/ep32/src/credits_private.tsv` の記号の行の3列目＝画面は焼くときに足す） | commons:New York District Responds To U.S. Airways Flight 1549 Crash in the Hudson River -e.jpg |
+| `c14` | cb06（地 cb05 cb07 cb10） | 2009 | CC BY 2.0（この回の物と場所） | Commons の撮影者（名前は git の外 `ref/ep32/src/credits_private.tsv` の記号の行の3列目＝画面は焼くときに足す） | commons:New York District Responds To U.S. Airways Flight 1549 Crash in the Hudson River -e.jpg |
 | `c15` | c105 | 2009 | CC BY 2.0（この回の物と場所） | Commons の撮影者（名前は git の外 `ref/ep32/src/credits_private.tsv` の記号の行の3列目＝画面は焼くときに足す） | commons:Plane and ferry in the Hudson 1.jpg |
 | `c16` | c821（地 c813 c816 c819 c820 c822） | 2009 | CC BY 2.0（この回の物と場所） | Commons の撮影者（名前は git の外 `ref/ep32/src/credits_private.tsv` の記号の行の3列目＝画面は焼くときに足す） | commons:Plane and ferry in the Hudson 2.jpg |
 | `c18` | c106（地 c913 ca14） | 2009 | CC BY 2.0（この回の物と場所） | Commons の撮影者（名前は git の外 `ref/ep32/src/credits_private.tsv` の記号の行の3列目＝画面は焼くときに足す） | commons:Plane and some ferries in the Hudson.jpg |
@@ -3751,7 +3751,7 @@ BY-SA の表示＝撮影者・許諾名と URL・素材の URL・無改変（許
 | `c57` | ca11 | 2010 | CC BY-SA 3.0（この回の物と場所） | Commons の撮影者（名前は git の外 `ref/ep32/src/credits_private.tsv` の記号の行の3列目＝画面は焼くときに足す） | commons:N106USinNJ2010.jpg |
 | `c59` | cc01 | 2011 | CC0（この回の物と場所） | 表示は任意（CC0）＝撮影者の名乗りを焼くときに足す | commons:US Airways Flight 1549 in Maryland.jpg |
 | `c60` | cc02 | 2011 | CC0（この回の物と場所・字に升目） | 表示は任意（CC0）＝撮影者の名乗りを焼くときに足す | commons:US Airways Flight 1549 support vehicle in Maryland.jpg |
-| `c61` | c305（地 c306 c307 cb10） | 2009 | PD（PD-NTSB）（この回の物と場所） | 米国の機関（public domain） | commons:USAir 1549 bird feather.jpg |
+| `c61` | c305 | 2009 | PD（PD-NTSB）（この回の物と場所） | 米国の機関（public domain） | commons:USAir 1549 bird feather.jpg |
 | `c62` | c611 | 2011 | CC BY-SA 3.0（この回の物と場所） | Commons の撮影者（名前は git の外 `ref/ep32/src/credits_private.tsv` の記号の行の3列目＝画面は焼くときに足す） | commons:USAir 1549（機体番号N106US）」のコックピット.jpg |
 | `c63` | c806 | 2011 | CC BY-SA 3.0（この回の物と場所） | Commons の撮影者（名前は git の外 `ref/ep32/src/credits_private.tsv` の記号の行の3列目＝画面は焼くときに足す） | commons:USAir 1549（機体番号N106US）」の座席.jpg |
 | `c68` | c717 | 2011 | CC BY-SA 3.0（この回の物と場所） | Commons の撮影者（名前は git の外 `ref/ep32/src/credits_private.tsv` の記号の行の3列目＝画面は焼くときに足す） | commons:USAir 1549（機体番号N106US）」調査後の機体底部.jpg |
@@ -3794,7 +3794,7 @@ BY-SA の表示＝撮影者・許諾名と URL・素材の URL・無改変（許
 | `ga1` | （地 c319 c402 c407 c417 c422） | 不明 | Pexels（イメージ＝この回の物でない・束の外） | 投稿者（クレジットは任意＝書かない） | https://www.pexels.com/photo/air-traffic-control-room-3582597/ |
 | `gb1` | （地 c603） | 不明 | Pexels（イメージ＝この回の物でない・束の外） | 投稿者（クレジットは任意＝書かない） | https://www.pexels.com/photo/close-up-of-paper-cards-12585541/ |
 | `gb2` | （地 c610 c614 c615） | 不明 | Pexels（イメージ＝この回の物でない・束の外） | 投稿者（クレジットは任意＝書かない） | https://www.pexels.com/photo/corner-of-paper-stack-20062955/ |
-| `gc1` | （地 c605） | 不明 | Pexels（イメージ＝この回の物でない・束の外） | 投稿者（クレジットは任意＝書かない） | https://www.pexels.com/photo/aerial-view-of-soft-cloud-blanket-from-above-35706529/ |
+| `gc1` | （地 c306 c307 c605） | 不明 | Pexels（イメージ＝この回の物でない・束の外） | 投稿者（クレジットは任意＝書かない） | https://www.pexels.com/photo/aerial-view-of-soft-cloud-blanket-from-above-35706529/ |
 | `gf1` | （地 c703 c711） | 不明 | Pexels（イメージ＝この回の物でない・束の外） | 投稿者（クレジットは任意＝書かない） | https://www.pexels.com/photo/an-airplane-wing-seen-from-the-airplane-window-17754867/ |
 | `gk1` | （地 c213 c313 c315 c321 c510 c513 c601 c608 c617 c621 c707 c709） | 不明 | Pexels（イメージ＝この回の物でない・束の外） | 投稿者（クレジットは任意＝書かない） | https://www.pexels.com/photo/control-lever-in-a-cockpit-6916506/ |
 | `gk2` | （地 c705） | 不明 | Pexels（イメージ＝この回の物でない・束の外） | 投稿者（クレジットは任意＝書かない） | https://www.pexels.com/photo/vintage-aircraft-cockpit-with-analog-gauges-29053115/ |
@@ -3842,7 +3842,7 @@ BY-SA の表示＝撮影者・許諾名と URL・素材の URL・無改変（許
 | `x803` | c803 | 不明 | Pexels（イメージ＝この回の物でない・束の外） | 投稿者（クレジットは任意＝書かない） | https://www.pexels.com/photo/solitary-inflatable-boat-on-tranquil-sea-33338814/ |
 | `x808` | c808 | 不明 | Pexels（イメージ＝この回の物でない・束の外） | 投稿者（クレジットは任意＝書かない） | https://www.pexels.com/photo/empty-seats-in-airplane-20584536/ |
 | `x817` | c817 | 不明 | Pexels（イメージ＝この回の物でない・束の外） | 投稿者（クレジットは任意＝書かない） | https://www.pexels.com/photo/safety-guidelines-on-gray-background-7508662/ |
-| `x818` | c818 | 不明 | Pexels（イメージ＝この回の物でない・束の外） | 投稿者（クレジットは任意＝書かない） | https://www.pexels.com/photo/close-up-of-aviation-policy-on-the-back-of-an-airplane-seat-3036757/ |
+| `x818` | c818 | 不明 | Pexels（イメージ＝この回の物でない・束の外） | 投稿者（クレジットは任意＝書かない） | https://www.pexels.com/photo/black-seats-in-airplane-4061487/ |
 | `x904` | c904 | 不明 | Pexels（イメージ＝この回の物でない・束の外） | 投稿者（クレジットは任意＝書かない） | https://www.pexels.com/photo/sea-seen-from-ferry-12020663/ |
 | `x914` | c914 | 不明 | Pexels（イメージ＝この回の物でない・束の外） | 投稿者（クレジットは任意＝書かない） | https://www.pexels.com/photo/empty-blue-airplane-seats-3129736/ |
 | `xa03` | ca03 | 不明 | Pexels（イメージ＝この回の物でない・束の外） | 投稿者（クレジットは任意＝書かない） | https://www.pexels.com/photo/body-of-water-285853/ |
